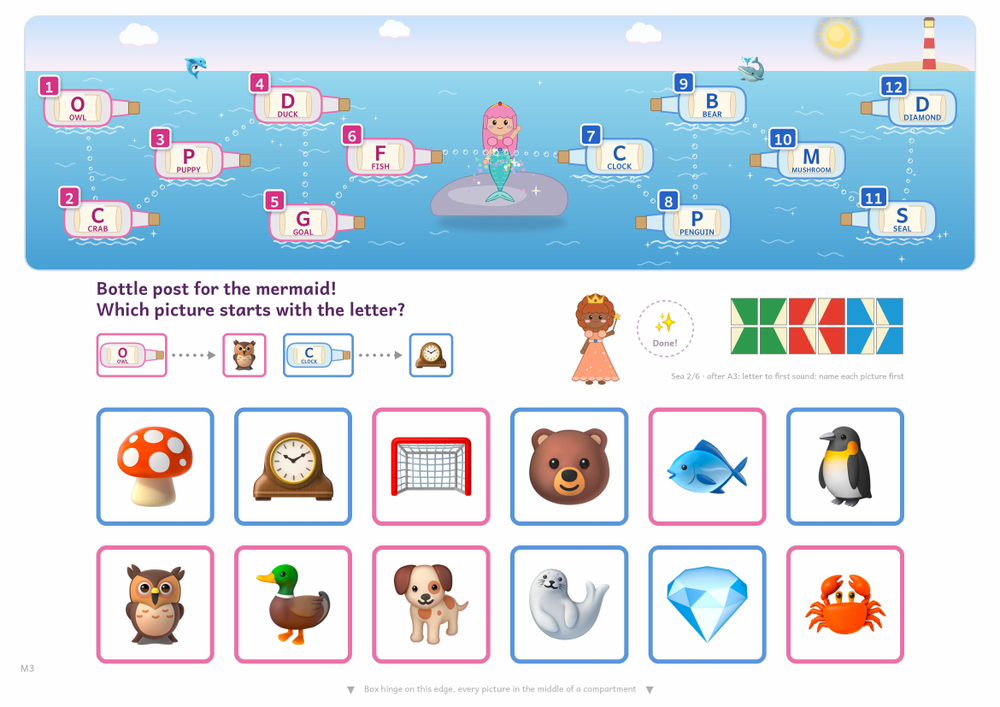
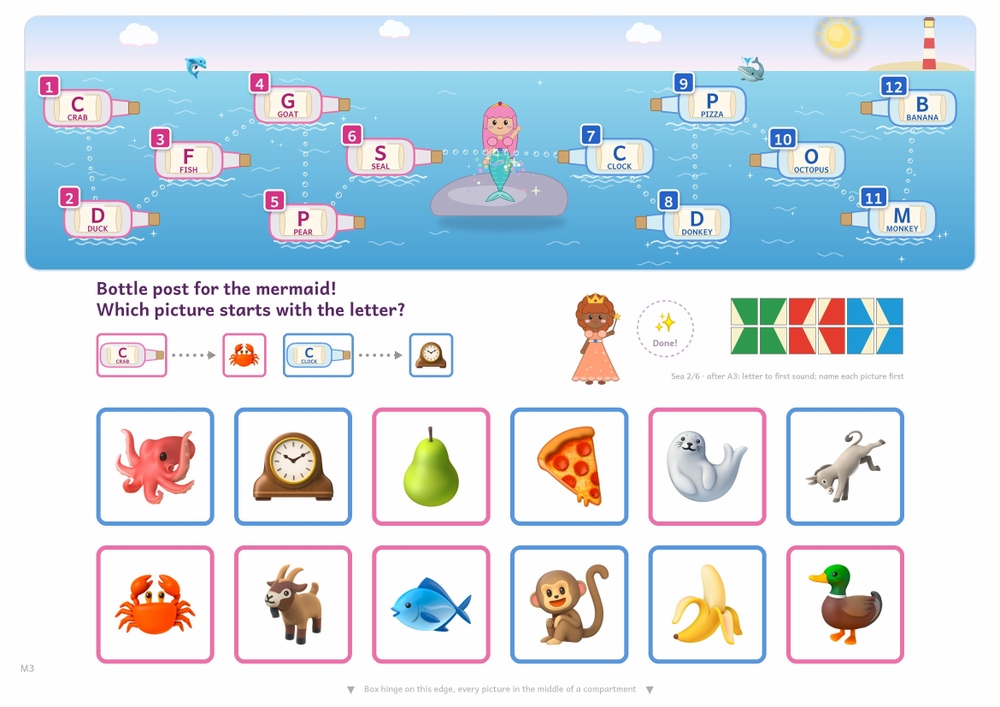
docs(lanes): audit fixes, spacing and print form
German M6 counts, both languages on M3 and M5 rows, four-week plain check, one-dimension rule.

diff --git a/miniluek-sheets/presets/letters/research.md b/miniluek-sheets/presets/letters/research.md
@@ -18,12 +18,12 @@ experiment, descriptive or single-case study, book or narrative review.
 | A3 Who starts with it? | first sound to picture | word-bound letter cards with the word captioned; name each picture first | phonological awareness predicts later reading (NELP 2008 [M]); code-focused teaching includes phonological teaching (NELP 2008 [M]) |
 | A4 Who starts with which letter? | picture to first letter | the reverse direction on its own sheet | children map number both ways (Mundy & Gilmore 2009 [E]); the letter reverse is untested |
 | A5 Which part does it start with? | word starts to words | cards only for starts that fit one course word | phonological awareness (NELP 2008 [M]) |
-| A6 Read the word | whole printed words, 3 to 6 letters (German 3 to 8) | short words pink, long words blue | code-focused teaching (NELP 2008 [M]) |
+| A6 Read the word | whole printed words, 3 to 6 letters (German 3 to 8), printed as in books | short words pink, long words blue | code-focused teaching (NELP 2008 [M]) |
 | M2 Little and big fish (sea post) | lowercase to uppercase inside a picture | little fish carry the lowercase letter, review after A2, the other way round | letter knowledge (NELP 2008 [M]); untested as a picture; shape similarity drives lowercase naming (Vinter et al. 2023 [E]) |
-| M3 Bottle post (sea post) | first sound to picture inside a picture | letter and new word on a scroll in each bottle (CRAB, DUCK, FISH, GOAT, PEAR, SEAL; CLOCK, DONKEY, PIZZA, OCTOPUS, MONKEY, BANANA), review after A3 | phonological awareness (NELP 2008 [M]); untested as a picture |
+| M3 Bottle post (sea post) | first sound to picture inside a picture | letter and new word on a scroll in each bottle (English CRAB, DUCK, FISH, GOAT, PEAR, SEAL; CLOCK, DONKEY, PIZZA, OCTOPUS, MONKEY, BANANA. German FISCH, BIENE, KUH, WAL, HASE, LÖWE; MUSCHEL, SEEHUND, TASSE, ERDBEERE, PANDA, GIRAFFE), review after A3 | phonological awareness (NELP 2008 [M]); untested as a picture |
 | M4 Bubbles (sea post) | picture to first letter inside a picture | one new picture per bubble, review after A4 | NELP 2008 [M]; the letter reverse is untested |
-| M5 Word-start bubbles (sea post) | word start to picture inside a picture | starts that fit one new word each (CR, DU, FI, GO, PE, SE; CL, DO, PI, OC, MO, BA), review after A5 | phonological awareness (NELP 2008 [M]); untested as a picture |
-| M6 Post boats (sea post) | printed word to picture inside a picture | the new word on each hull, 4 letters pink, 5 to 7 blue, review after A6 | code-focused teaching (NELP 2008 [M]); untested as a picture |
+| M5 Word-start bubbles (sea post) | word start to picture inside a picture | starts that fit one new word each (English CR, DU, FI, GO, PE, SE; CL, DO, PI, OC, MO, BA. German HA, LÖ, BI, KU, WA, FI; TA, GI, ER, MU, SE, PA), review after A5 | phonological awareness (NELP 2008 [M]); untested as a picture |
+| M6 Post boats (sea post) | printed word to picture inside a picture | the new word on each hull (English: 4 letters pink, 5 to 7 blue; German: 3 to 5 pink, 5 to 8 blue), printed as in books, review after A6 | code-focused teaching (NELP 2008 [M]); untested as a picture |
 | M7 Parcels (sea post) | picture to short word | every first letter comes at least twice in a family, so the first letter alone never decides; after A6 | code-focused teaching (NELP 2008 [M]); the shared-letter design is untested |
 
 ## Design rules
@@ -32,10 +32,9 @@ experiment, descriptive or single-case study, book or narrative review.
 |---|---|---|
 | One direction per sheet; no answer repeats a task picture | an identical copy would be the easiest wrong match | the numbers lane's rule from Mix 2008 [E]: an identical copy pulls children away from content |
 | Two colour families on the two-pair sheets | the only other answer with the right content has the other colour | same matching logic as the numbers sheets; untested for letters |
-| Sea-post sheet as the review day | a full story illustration with the tasks set into it | motivation through a story world; untested, takes a revisit day, never the daily sheet; M7 is the exception, the first picture-to-word sheet |
+| Sea-post sheet as the review day | a full story illustration with the tasks set into it; each revisit changes exactly one dimension: direction on M2 (little to big after big to little), words on M3 to M6 (new sea-post words with the same letters) | motivation through a story world; untested, takes a revisit day, never the daily sheet; M7 is the exception, the first picture-to-word sheet |
 | Worked examples per family | modelling before practice | Akther et al. 2025 [M]: modelling was common in effective counting interventions; untested for letters |
 | Pattern check | feedback | feedback was common in effective counting interventions (Akther et al. 2025 [M]); untested for letters |
-| Theme, and the child chooses which sheet comes back | motivation and learning | Córdova & Lepper 1996 [R] |
 
 ## Using the sheets
 

diff --git a/miniluek-sheets/presets/numbers/research.md b/miniluek-sheets/presets/numbers/research.md
@@ -98,7 +98,9 @@ the tables below.
 Fourteen circus sheets set the 12 badges into one illustration of a day at the unicorn
 circus, morning to night. C1 to C13 follow S1 to S13 and practise the same step, so the plain
 page teaches and the circus page reviews; C14, the take-away party, has no plain sheet and comes
-after the same idea with objects. The day's arc is untested. No study tested a story picture as
+after the same idea with objects. The day's arc is untested. Each revisit changes exactly one
+dimension: objects on every circus sheet except C4 (new tokens, animals or scenes), direction on
+C4 (dice to fingers after fingers to dice). No study tested a story picture as
 the review step, but each rule targets a pathway that has evidence:
 
 | Pathway | Evidence | What the sheets do |
@@ -136,7 +138,7 @@ without adding anything to the page. Letting the child teach her doll is the ext
 - **One sheet a day.** Move on after two days with the pattern right first time, repeat a
   mastered sheet a week later. Distributed teaching beat clustered teaching (Seabrook et al.
   2005); each extra hour of intervention added little once other factors were controlled
-  (Miller et al. 2025).
+  (Miller et al. 2025). A second plain-sheet check four weeks after mastery extends the schedule: for year-scale retention the optimal single-review gap was about three to four weeks (Cepeda et al. 2008 [E]), and distributed procedural-math practice paid off at a four-week test while same-session extras did nothing (Rohrer and Taylor 2006 [E]).
 - The sheets are practice with feedback, not instruction.
 
 ## Number learning after prenatal alcohol exposure
@@ -378,6 +380,8 @@ decoration out of the stations. The trial gains came from trained
   performance on measures of intelligence or other measures of "far transfer".
   *Perspect Psychol Sci* 11(4):512–534.
   [doi:10.1177/1745691616635612](https://doi.org/10.1177/1745691616635612).
+- [E] **Cepeda, Vul, Rohrer, Wixted and Pashler 2008.** Spacing effects in learning: a temporal ridgeline of optimal retention. *Psychol Sci* 19(11):1095-1102. [doi:10.1111/j.1467-9280.2008.02209.x](https://doi.org/10.1111/j.1467-9280.2008.02209.x). 1,354 adults learned 32 facts; interpolated optimal review gaps were about 3, 8, 12 and 27 days for 7-, 35-, 70- and 350-day retention intervals.
+- [E] **Rohrer and Taylor 2006.** The effects of overlearning and distributed practise on the retention of mathematics knowledge. *Appl Cogn Psychol* 20:1209-1224. [doi:10.1002/acp.1266](https://doi.org/10.1002/acp.1266). 216 college students; 10 problems across two sessions a week apart vs massed: no difference at one week, about double at four weeks; 3 vs 9 problems: no difference at either delay.
 - [G] **MILE cycle.** [mileprogram.ca](https://www.mileprogram.ca): "Identify the errors your
   students are making. Focus on one at a time before moving onto the next". MILE content per
   the [NCII tools chart](https://charts.intensiveintervention.org/intervention/toolGRP/94dcd2b9344433b7):

diff --git a/miniluek-sheets/presets/letters/teaching-order.md b/miniluek-sheets/presets/letters/teaching-order.md
@@ -62,7 +62,7 @@ one sheet a day, reading work sits inside it, never on top of it.
 ## Sea-post sheets
 
 M2 to M6 each take the day's slot a week after the plain sheet with their number is mastered, as
-review, never as the daily sheet (A3 is reviewed by M3). M7 runs the reverse direction of A6,
+review, never as the daily sheet (A3 is reviewed by M3). A second plain-sheet check follows four weeks after mastery, as in the numbers lane. A1 has no sea-post revisit, so the four-week check is its only revisit. M7 runs the reverse direction of A6,
 picture to word, with mostly new words: it is a daily sheet once A6 is mastered and M6 done.
 
 | Sheet | After | Scene | Task | Answer |
@@ -92,7 +92,7 @@ The same rules as the numbers lane: one direction per sheet, two colour families
 sheets, no answer copies another task (`check` refuses it), different-looking task and answer sides,
 worked examples per family, feedback by pattern check. English letter names say the letter's
 sound, not "see-ay-tee": the adult says the sounds ("kuh-ah-tuh") and slides them together.
-German keeps its umlauts everywhere: letter cards, word-start cards, word pills and titles. On the
+German keeps its umlauts everywhere: letter cards, word-start cards, word pills and titles. Whole words on A6, M6 and M7 print as in books (Hund, Cat); single letters and fragments stay capitals. On the
 initial-sound cards and on M3's bottles the picture word is captioned under the letter.
 
 The twelve course words start with their letter's sound: CAT, DOG, FOX, OTTER, PIG, GIFT,
@@ -101,7 +101,7 @@ GESCHENK, SONNE, TORTE, LUTSCHER, WURM, PILZ). The twelve sea-post words start w
 letters' sounds and appear nowhere else: CRAB, DUCK, FISH, GOAT, PEAR, SEAL, CLOCK, DONKEY,
 PIZZA, OCTOPUS, MONKEY, BANANA (German: FISCH, BIENE, KUH, WAL, HASE, LÖWE, MUSCHEL, SEEHUND,
 TASSE, ERDBEERE, PANDA, GIRAFFE). Each picture has one name a child would give it, and no
-second name starts with another letter of the set (the puppy would be "dog", the carrot
+second name taught first starts with another letter of the set (rabbit is taught as Hase, not Kaninchen; cup as Tasse, not Kaffee; the puppy would be "dog", the carrot
 "Karotte"). Name each new picture together first, as on M7. German A4 tasks carry the German index
 explicitly, because a picture file name would give the English letter (cat would ask for C
 instead of K).

diff --git a/miniluek-sheets/presets/numbers/teaching-order.md b/miniluek-sheets/presets/numbers/teaching-order.md
@@ -124,13 +124,13 @@ day should be spent at the edge of what the child can almost do.
   Act, Reflect method of MILE, a 1:1 math tutoring programme tested in randomised trials
   (Kable, Coles & Taddeo 2007; Coles, Kable & Taddeo 2009).
 - One sheet per session, 5–10 minutes, stop before frustration; move on after two days with
-  the pattern right first time, repeat a mastered sheet a week later. A sheet stopped early is
+  the pattern right first time, repeat a mastered sheet a week later, and check it once more with the plain sheet four weeks after mastery. A sheet stopped early is
   finished at the start of the next session, or the adult checks only the tiles placed: the
   pattern check needs all twelve tiles to mean anything. The tiles are a fine-motor task: the
   adult may place the one the child points to.
-- The week-later revisit of a mastered sheet is its circus sheet, never the daily sheet. At two
-  days right first time plus one revisit per sheet the lane runs to at least 42 sheet-days: 39
-  for the plain sheets and their circus sheets, 3 for the take-away party. A circus sheet can be split: the pink six one day, the blue six the next,
+- The week-later revisit of a mastered sheet is its circus sheet, never the daily sheet. The four-weeks-after-mastery check re-uses the plain sheet, three weeks after its circus sheet. At two
+  days right first time plus two revisits per sheet the lane runs to at least 55 sheet-days: 52
+  for the plain sheets and their two revisits, 3 for the take-away party. A circus sheet can be split: the pink six one day, the blue six the next,
   the adult checking only the placed tiles. A child who cannot yet work the plain sheet goes back
   to it, not forward to the picture.
 - Tell each sheet as a story, best with a doll or puppet who needs help: "the princess sells the

diff --git a/miniluek-sheets/references/spec.md b/miniluek-sheets/references/spec.md
@@ -52,7 +52,7 @@ and `bone` are plain pictures; the `castle` scene lays them on rugs.
 
 Letter kinds: `letter` (`n` 0–25, A to Z), `lower` (its lowercase, as an answer), `card` (a
 letter card, `card:C`, or bound to a course word, `card:CAT`, which captions the word), `pict`
-(one picture, `pict:cat`, whose first letter is `n`), `wcard` (a printed word) and `syll` (the
+(one picture, `pict:cat`, whose first letter is `n`), `wcard` (a printed word, shown as in books: `Cat`) and `syll` (the
 start of a course word, `syll:CA`). `card:WORD`, `syll:XX` and word-to-picture pairs resolve
 through the 47-word list (`WORD_PIC` in `scripts/miniluek.py`): 12 course words and 12 sea-post words per language, German PANDA sharing the English entry; a task written as an
 object can bind any picture to its `word`.
@@ -84,7 +84,6 @@ draws its twelve stations from the tasks; `check` refuses a task the scene canno
 | `magic_show` | C12 | `chest` | `n` 3–8 in a ten-frame |
 | `seal_show` | C13 | `balls` | `n` 1–6; the answer kind `balls` stacks them on one floor line |
 | `party` | C14 | `plate` | `n` 1–6 left after one is eaten |
-| `twin_shells` | | `letter` | `n` 0–25 |
 | `fish_school` | M2 | `lower` | `n` 0–25; answers are the capitals |
 | `bottle_post` | M3 | `card` | a sea-post word |
 | `sea_finds` | M4 | `pict` | a new picture and its first letter `n` |
